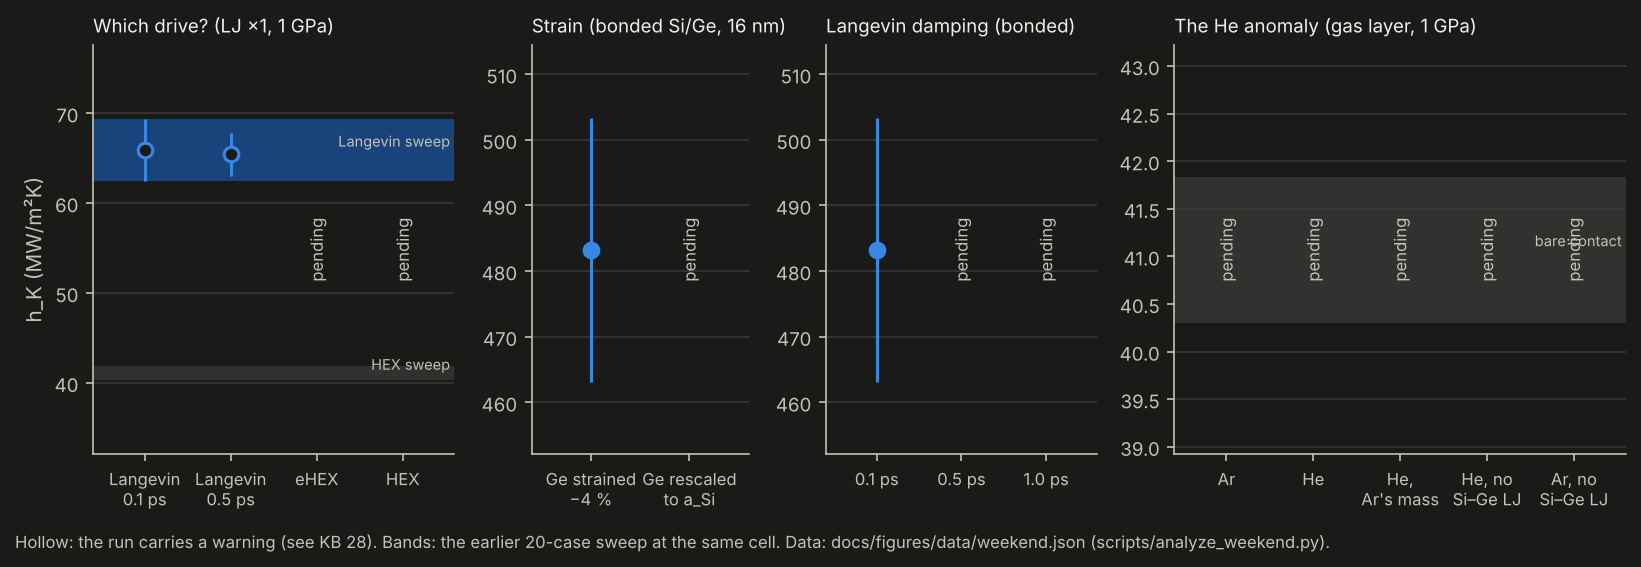
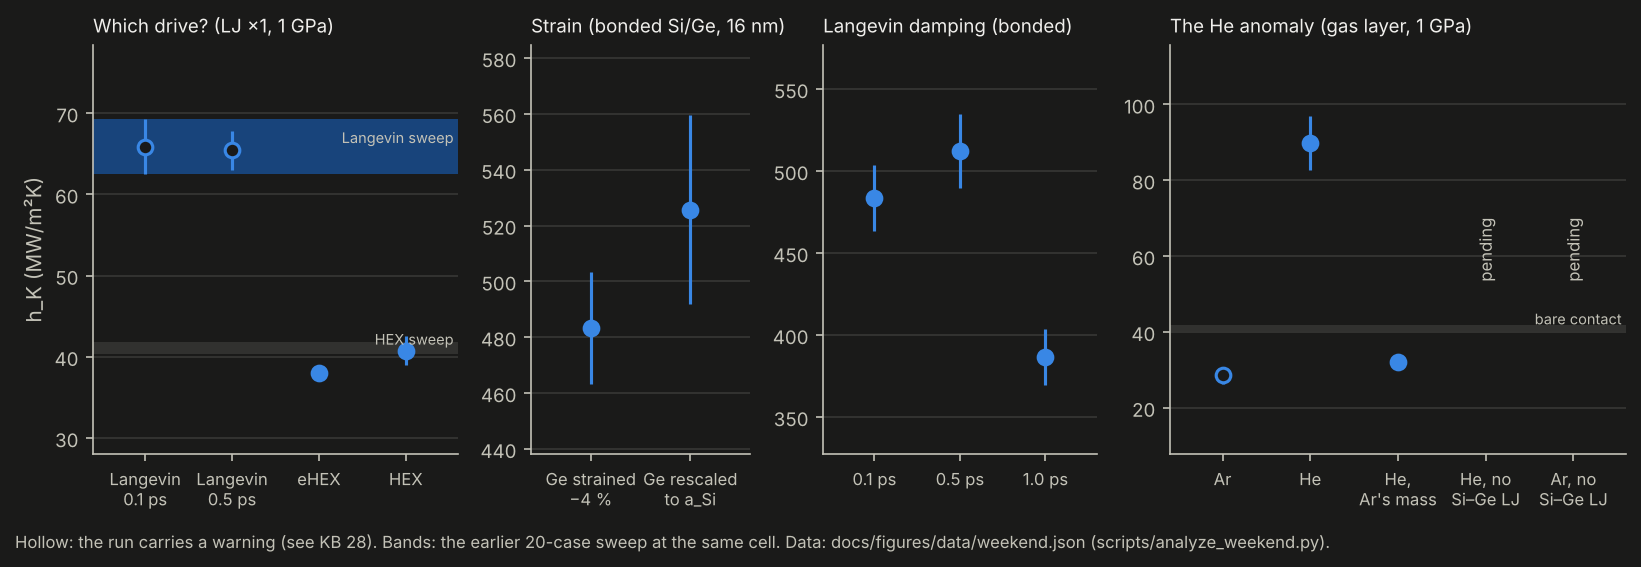
Weekend set: 10 of 12 results (KB 41)
- drives: eHEX 38.0 = HEX 40.7; Langevin 65.9/65.4; tally confirms every
  flux; the Langevin runs carried 2.5x the flux (36 K vs 24 K jump), so
  the gap may be drive amplitude, not method - next run named
- strain: rescaled Ge 526 +/- 34 vs strained 483 +/- 20, no change; strain
  is not why Si/Ge reads high
- damping (bonded): 0.1 = 0.5 ps; 1.0 ps -20 % (4 sigma), one run
- He anomaly explained by mass: He 89.9, Ar 28.5, He with Ar's mass 32.0,
  scaling as m^-1/2; He layer fluid (D 4.6e-9), Ar solid
weekend.json and figure; tracker S-6, P1-16, P1-17.

Claude-Session: https://claude.ai/code/session_01UGWBVEPSXAkniSZst1HEgy

diff --git a/docs/open-issues.md b/docs/open-issues.md
@@ -25,8 +25,8 @@ Last updated: 23 Oct 2026 (agent guide and README restructure; P0-10 unloading, 
 | P1-14 | **Electron–phonon resistance on metal sides.** (KB §24: published Al/Si penalties span −4 to −23 %, DeePMD −9.5 %; our series band −25 % is the pessimistic end — correctly labelled a lower bound on h.) Phonon-only NEMD misses it. **Estimate built** (`md/electron_phonon.py`): Majumdar–Reddy h_ep = √(g·k_p) in series; reproduces Yang et al.'s Al/Si series value (0.37 GW/m²K) from their own inputs. **Survey done** (knowledge base §7): k_p is the weakest input (Al: 8.1 first-principles with p-e scattering, 17.0 in their MEAM MD); g spans ~5× for Cu (5.5e16–2.6e17); the series formula over-predicts the full TTM-MD resistance by 6–15 % (Wang et al. 2012); `fix ttm/thermal` supports electron-free cells (k_e = γ_p = 0) but requires periodic z and a fixed box; cooling length √(k_p/g) ≈ 6 nm (Al), 15–18 nm (Cu), so metal slabs of tens of nm. **Band built** (`series_band`): first-principles lattice k_p by default, sourced g spread; at h_pp 460 MW/m²K Al/Si → 347 (332–358, single g), Cu/Si at 400 → 301 (283–340); flagged as a lower bound (series over-predicts resistance, cross-interface channel omitted). **TTM-MD deck built** (`md/ttm.py`, KB §7.x): `fix ttm/thermal`, periodic z with a self-checked vacuum guard, electrons on the metal only, production-averaged metal T_e, metal-side fit exclusion, `compare_runs` for h_ep. Plumbing pair on Si/Al (40 ps): runs end to end, not steady (reservoir fluxes 85–102 % apart), h_ep correctly not quoted; electron and lattice means agree within noise. Converged pair needs ≳ 30 nm Al and ~0.5–1 ns. | deck built; **cluster** | TTM-MD run for Si/Al giving h_ep and h_pp separately, and the series estimate reported as a band; converged on the cluster. |
 | P1-8 | **Equilibrium cross-check.** **Built** (`md/emd_kapitza.py`, KB §11): same cell as NEMD, NVE fluctuations, slab-ENERGY ΔT (kinetic temperature hides the decay), two-exponential fit with the slow time as the interface, h = C_r/(Aτ), compared as NEMD/EMD expected in 1–10 (≈3 Si/Ge). Local Si/Ge run (1 ns, 31 τ): τ_slow 32 ps, h 77 ± 269 MW/m²K — unresolved, as expected at that length. | built; **cluster** (`sige_emd`, 16 ns) | NEMD/EMD on the converged campaign cell, both with errors. **30 Oct (M3 Pro):** EMD h = 32 ± 9 MW/m²K, NEMD/EMD = 15.6, outside 1–10; 2 nm slabs, 209 τ. **Re-analysed:** two decays (1.3 ps 23 %, 77 ps 73 %) bracket h at 32–1,860 MW/m²K; NEMD's 485 sits between. Canonical variance (1.14×), no energy leakage, reproducible across quarters: h is undetermined by this cell, not wrong by 15×. New flag EMD_TWO_TIMESCALES. Optional diagnostic: slabs ×2 (~10 h local). **31 Oct (KB §23):** Merabia's procedure fits from ~5 ps to the tenfold drop, i.e. our slow component; the next EMD run uses the strain-free cell, slabs ≥ 5.4 nm, and compares with their NEMD/EMD ≈ 3. |
 | P1-9 | **Spot-pressure MD.** Implemented as a loaded piston (−P·A/N per wall atom), uniaxial stress, flagged `NEMD_SPOT_PRESSURE_MODEL`. Real 2 GPa test (4,960-atom Si/Ge, 20 ps relax): production raw Pzz 1.68 GPa, in-plane −0.08; 6 % of the shortfall is the box-volume artefact now corrected by slab-volume stress columns. | in progress | One h_K at spot pressure reported against P = 0 on a converged cell. |
-| P1-16 | **Strain-free Si/Ge cell (KB §22, §23, §28, §34).** *Queued 7 Nov: `weekend/sige_ge_rescaled` (`md/rescale_tersoff.py`, Ge relaxes to 5.4298 Å). Incoherent 25:24 cell written for the cluster (`sige_incoherent`), smoke-tested.* Three cells: Ge potential rescaled to a_Si (Feng; laptop), the current strained build, and a relaxed incoherent ~24:23 supercell (~13 nm side; GPU) — the first pair isolates strain, the third bounds misfit reconstruction (Li & Yang 2012: −7 % at 8 % mismatch). Our build puts Ge at −4 % strain on the Si lattice; every Si/Ge value we have (483 at 16 nm, ≈600–640 at 64 nm) sits above the converged literature range ≈266–450 (AEMD Tersoff 266, SW NEMD ≈320, Feng Tersoff 450 with the Ge potential rescaled to a_Si). Compressed Ge moves its spectrum toward Si's, the overlap that raises h. Build the rescaled-Ge variant (Feng) or a commensurate supercell (`structure/crystalline.py`) and quantify the strain effect at 16 nm. | open | The strain effect on h_K measured, and the campaign's quoted value stated for the strain-free cell. |
-| P1-17 | **Langevin damping axis (KB §22, §28, §38).** *Non-bonded cell answered 7 Nov: 0.5 ps gives 65.4 ± 2.4 against 65.9 ± 3.4 at 0.1 ps, no effect. Bonded `sige_damp0.5`/`sige_damp1.0` queued.* Ours is 0.1 ps, the short edge of the recommended 0.1–1 ps (Li et al. 2019); short damping inflated ITC by up to 40 % in Olarte-Plata & Bresme; Feng used 0.5 ps. Add 0.1 / 0.5 / 1 ps rungs at 16 nm (≈1.5 h each on the M3 Pro). | open | h_K insensitive to damping within its error, or the default moved. |
+| P1-16 | **Strain-free Si/Ge cell (KB §22, §23, §28, §34).** *Rescaled-Ge result 9 Nov (KB §41): 526 ± 34 vs strained 483 ± 20, no significant change: strain is NOT why Si/Ge reads high. (`md/rescale_tersoff.py`, Ge relaxes to 5.4298 Å). Incoherent 25:24 cell written for the cluster (`sige_incoherent`), smoke-tested.* Three cells: Ge potential rescaled to a_Si (Feng; laptop), the current strained build, and a relaxed incoherent ~24:23 supercell (~13 nm side; GPU) — the first pair isolates strain, the third bounds misfit reconstruction (Li & Yang 2012: −7 % at 8 % mismatch). Our build puts Ge at −4 % strain on the Si lattice; every Si/Ge value we have (483 at 16 nm, ≈600–640 at 64 nm) sits above the converged literature range ≈266–450 (AEMD Tersoff 266, SW NEMD ≈320, Feng Tersoff 450 with the Ge potential rescaled to a_Si). Compressed Ge moves its spectrum toward Si's, the overlap that raises h. Build the rescaled-Ge variant (Feng) or a commensurate supercell (`structure/crystalline.py`) and quantify the strain effect at 16 nm. | open | The strain effect on h_K measured, and the campaign's quoted value stated for the strain-free cell. |
+| P1-17 | **Langevin damping axis (KB §22, §28, §38).** *Answered 9 Nov (KB §41): non-bonded 0.1 = 0.5 ps; bonded 0.1 ps 483, 0.5 ps 512 (same), 1.0 ps 387 (−20 %, 4σ): plateau 0.1–0.5 ps, keep 0.1 ps; replicate 1.0 ps.* Ours is 0.1 ps, the short edge of the recommended 0.1–1 ps (Li et al. 2019); short damping inflated ITC by up to 40 % in Olarte-Plata & Bresme; Feng used 0.5 ps. Add 0.1 / 0.5 / 1 ps rungs at 16 nm (≈1.5 h each on the M3 Pro). | open | h_K insensitive to damping within its error, or the default moved. |
 | P1-13 | **Uniform stress offset between relaxation and production.** Main cause found: the in-plane box was frozen at its instantaneous size while still oscillating under the barostat (~0.1 % strain). Box now set to its second-half mean before the barostat comes off: offset −0.22 → −0.08 GPa (20 ps relax test). | mostly resolved | Residual ≤ 0.05 GPa with the campaign's 50 ps relax / 100 ps equilibration, or its cause identified. |
 | P1-10 | **Spot-pressure lateral condition.** `spot_pressure_mode="stress"` (default: in-plane barostat at 0 under load) or `"strain"` (in-plane box relaxed unloaded, then held while the piston loads; lateral stress ~C12/C11·P, checked 0 < Pxx/P < 1 instead of ≈ 0). The flag names the bound and asks for the other. Engine test (2,080-atom Si/Ge, SiCGe.tersoff, 20 ps relax + 20 ps load, 2 GPa): unloaded box 22.2769 Å; **stress** mode 22.4056 Å (+0.58 %), σxx/σyy 0.02/0.03, σzz 1.69 GPa; **strain** mode box identical to unloaded, σxx/σyy 0.87/0.88, σzz 1.81 GPa, lateral/axial 0.48 (≈ C12/C11 of this potential). Both σzz short of 2 GPa: the P1-9 shortfall, smaller under strain. | implemented | Both modes run on a converged cell at one pressure and the bracket reported (cluster, with P1-9). |
 | P1-11 | **Throughput on the cluster.** Cost model now uses measured 4.5e5 (Tersoff) / 5.0e5 (SW) atom-steps per core-second from this container and a laptop. | **cluster** | One short run on the cluster; update `compute/resources.py`. |
@@ -46,7 +46,7 @@ analysis exist, no converged number.
 | S-3 | Metal/semiconductor | Al or Cu metallisation on Si | phonons **and** electron–phonon coupling in the metal | phonon-only and two-temperature (TTM) decks built; series e-ph band; nothing converged (P1-6, P1-14) | GPU / cluster |
 | S-4 | Metal/metal | Cu/Ni/Sn in solder joints and UBM, die-attach | electrons carry the heat across; phonon MD is the wrong tool | not started: electrons dominate; band 2–20 GW/m²K (Al/Cu ~4 Gundrum 2005, 8.5–8.8 Li & Feser; Al/Ni 1.7–2.6, electron DMM 5× high; KB §23), small next to constriction; to be estimated (electron DMM / Wiedemann–Franz) and stated, not simulated — intermetallics (Cu₆Sn₅, Cu₃Sn) are the exception and need bulk k instead | estimate only |
 | S-5 | Non-bonded (van der Waals) solid contact | pressed surfaces without chemical bonding, weakly bonded oxides | cross-interface force strength; contact pressure | **built 31 Oct** (`structure/nonbonded.py`): Tersoff per side, LJ across (UFF, scalable); sweep 20/20 done (KB §26): LJ ×¼/×1/×4 × 0–2 GPa = 5–36 / 18–52 / 93–141 MW/m²K vs bonded 493; trends physical (saturation at strong bonding). **Absolute level unsettled:** HEX 41 vs Langevin 66 at ×1, 1 GPa → arbitrate with the direct interface tally after the TALLY rebuild | laptop |
-| S-6 | Adsorbed gas at the contact spots | air- or He-filled package: a physisorbed layer between asperity tips | gas–solid LJ; coverage; pressure | **built 31 Oct**: Ar monolayer between Si and Ge (He, Ne, N₂ available; N₂ as a sphere); at 1 GPa (KB §26): Ar full 31.6 (−23 % vs bare 41.1), N₂ full 36.3 (−12 %), half layers no reduction; **He reads 68 (+65 %) at both coverages: unexplained, do not use** (light mobile atoms, or the direct Si–Ge tail across a thinner layer; tests he_mass40, he_nodirect, ar_nodirect queued, KB §28); same HEX caveat as S-5 | laptop |
+| S-6 | Adsorbed gas at the contact spots | air- or He-filled package: a physisorbed layer between asperity tips | gas–solid LJ; coverage; pressure | **built 31 Oct**: Ar monolayer between Si and Ge (He, Ne, N₂ available; N₂ as a sphere); at 1 GPa (KB §26): Ar full 31.6 (−23 % vs bare 41.1), N₂ full 36.3 (−12 %), half layers no reduction; **He reads 68 (+65 %) at both coverages: explained 9 Nov (KB §41), the light mass: He 89.9 vs Ar 28.5 under eHEX, and He with Ar's mass 32.0, following m^-½** (light mobile atoms, or the direct Si–Ge tail across a thinner layer; tests he_mass40, he_nodirect, ar_nodirect queued, KB §28); same HEX caveat as S-5 | laptop |
 | S-7 | Adsorbed water / organic contamination | assembly in humid air, flux residue | a water model (TIP4P/SPC/E) and a hydrocarbon force field | not started; needs potentials beyond Tersoff/LJ | laptop |
 | S-8 | Native oxide on metal | Al₂O₃ on Al, Cu₂O on Cu | metal–oxide potential (COMB, ReaxFF, or MLIP) | not started; measured target exists (Hopkins: oxide ≈ 1.7–1.9 × 10⁻⁹ m²K/W on Al/Si) | GPU |
 | S-9 | Disordered interface | intermixing, nanoscale roughness, dislocations | atomic disorder at the plane | **intermixing built 7 Nov** (`NEMDSpec.intermix_layers`, KB §30): n (100) layers swapped in place to a linear Ge fraction, exact counts checked in LAMMPS (0.125/0.375/0.625/0.875 for n = 4); **stepped interfaces built 7 Nov** (`NEMDSpec.interface_steps`, KB §33): a square-wave plane, terraces checked in LAMMPS. Jobs mix2/mix4/mix8, step4_p2, step8_p1 on the r00 cell (`scripts/prepare_disorder.py`), ~1.4 h each, queue after the weekend set. Not yet: dislocations | laptop |

diff --git a/docs/knowledge-base.md b/docs/knowledge-base.md
@@ -3961,3 +3961,66 @@ is more than PBE softening usually gives, so a full-length phonon run should
 confirm it before the potential is blamed; the quick run is a plumbing
 check.
 
+## 41. Weekend set: 10 of 12 results (9 Nov 2026)
+
+Table: `python3 scripts/analyze_weekend.py` (data `docs/figures/data/weekend.json`,
+figure `weekend-*.png`). Errors 1σ; a difference is called beyond 2σ.
+
+**A. Which drive (LJ ×1, 1 GPa).**
+
+| run | h_K | q (GW/m²) | tally q | jump ΔT |
+|---|---|---|---|---|
+| Langevin 0.1 ps | 65.9 ± 3.4 | 2.40 | 2.45 ± 0.10 | 36.4 K |
+| Langevin 0.5 ps | 65.4 ± 2.4 | 2.39 | 2.36 ± 0.07 | 36.5 K |
+| eHEX | 38.0 ± 0.9 | 0.94 | 0.88 ± 0.09 | 24.8 K |
+| HEX | 40.7 ± 1.8 | 0.94 | 0.95 ± 0.05 | 23.2 K |
+
+- eHEX = HEX (1.07 ± 0.05): HEX's drift is not the issue.
+- Damping does not matter (§38).
+- Every flux is confirmed by the tally, so all four runs measure h_K
+  correctly *for their own drive*. Langevin/imposed = 0.58 ± 0.03.
+- **But the drives were not matched:** the Langevin runs carried 2.5× the
+  flux and a 36 K jump against ~24 K. For a weak, anharmonic (van der Waals)
+  contact, h_K can rise with the jump: the hot face runs hotter and couples
+  more strongly. So this may be a **drive-amplitude** effect, not a method
+  difference. *Decisive next run:* imposed flux at 2.4 GW/m² (or Langevin
+  with a 15 K drive) on the same cell. If h follows q, report h_K(ΔT) for
+  weak contacts and use small drives; if not, the method itself differs.
+
+**B. Strain (bonded, 16 nm).** Ge rescaled to a_Si: **525.7 ± 33.8**, against
+r00 (−4 % strain) 483 ± 20: ratio 1.09 ± 0.08, no significant change.
+**Removing the misfit strain does not lower h_K**, so strain is not why our
+Si/Ge value sits above the literature range (§22's leading hypothesis is
+not supported). Caveat: rescaling raises Ge's frequencies by ~4 %, which
+could offset a strain-removal decrease; the incoherent cell (§34, cluster)
+is the clean test. The remaining suspects are the potential's Ge phonons
+(TA +33 %, §37) and Si elastic constants (§40).
+
+**C. Langevin damping (bonded).** 0.1 ps 483 ± 20; 0.5 ps 512 ± 23 (same);
+**1.0 ps 387 ± 17 (−20 %, 4.1σ)**, with the reservoirs carrying 20 % less
+flux at the same 23.5 K jump. One run each; with a weak thermostat the
+2 nm reservoirs no longer hold their set temperatures, so 1 ps is past
+where this geometry is reliable. 0.1–0.5 ps is a plateau; keep 0.1 ps.
+A replicate at 1.0 ps (other seed) before generalising.
+
+**D. The He anomaly: solved, it is the mass.** eHEX, full monolayer, 1 GPa:
+
+| run | h_K | D_xy (m²/s) | in-plane MSD in 1 ns |
+|---|---|---|---|
+| Ar layer | 28.5 ± 2.2 | 2.8 × 10⁻¹² | 1.3 Å² (an adsorbed solid) |
+| He layer | **89.9 ± 7.2** | 4.6 × 10⁻⁹ | 1,446 Å² (a 2-D fluid) |
+| He's LJ, Ar's mass | 32.0 ± 1.5 | 1.0 × 10⁻⁹ | 332 Å² (still fluid) |
+
+- He/Ar = 3.15 ± 0.35; He(mass 40)/He = 0.36 ± 0.03. Giving He argon's mass
+  brings h_K down to argon's level **while the layer stays fluid**, so it is
+  the atom's lightness, not the layer's mobility, that carries the heat.
+- The ratios follow √(m_Ar/m_He) = 3.16 and its inverse: the energy a
+  light atom shuttles between the faces scales with its thermal speed
+  (∝ m^-½), as in gas-kinetic conduction.
+- So the He result is physical within classical MD. Classical treatment of
+  He at 300 K is adequate (thermal wavelength 0.2σ, §26). Real He layers at
+  contacts are rarely this dense, but the trend (light gas conducts better
+  per atom) is the same one that makes He the best gap gas in the continuum
+  model. Candidate 2 (direct Si–Ge tail) is being tested by the two
+  no-direct runs, still running.
+
